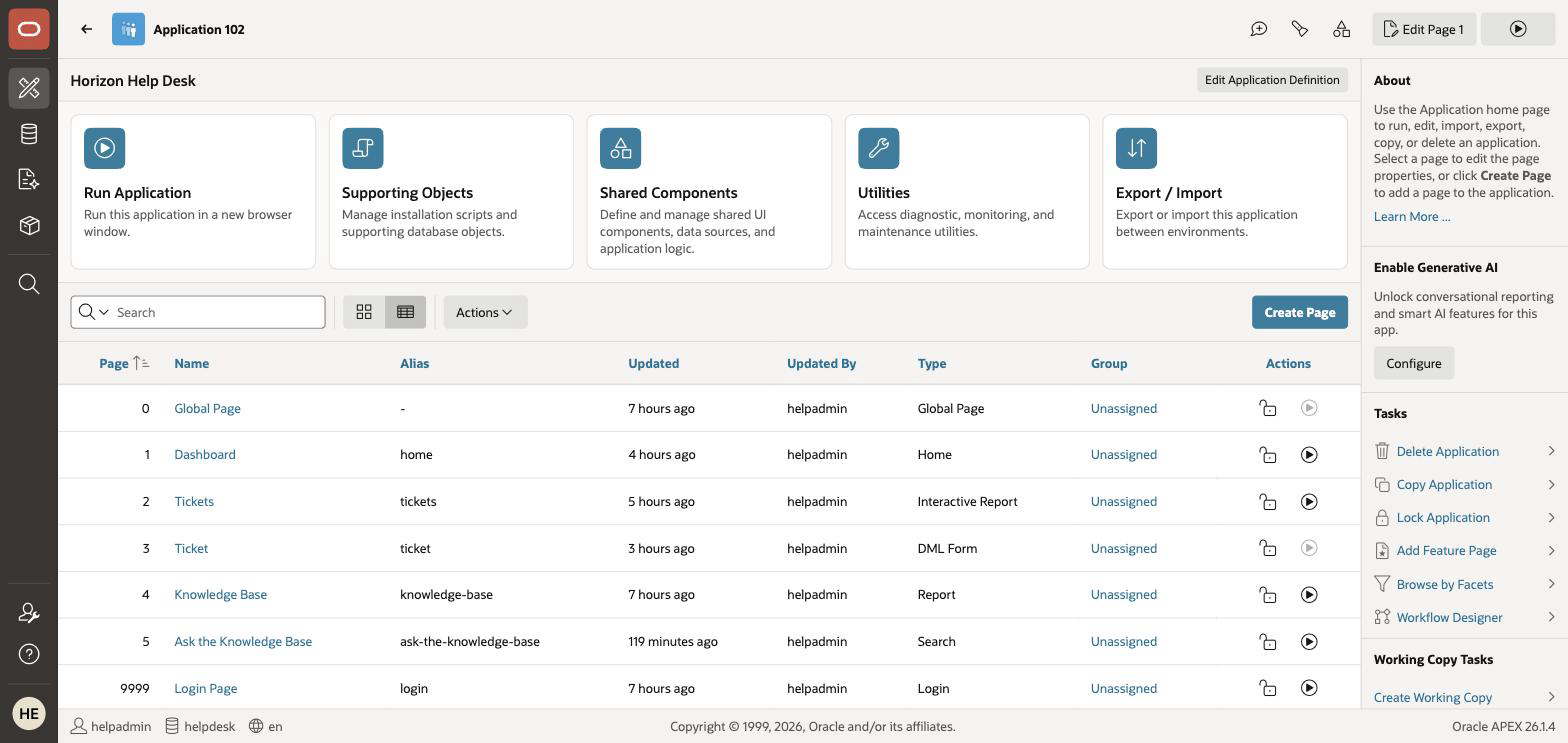
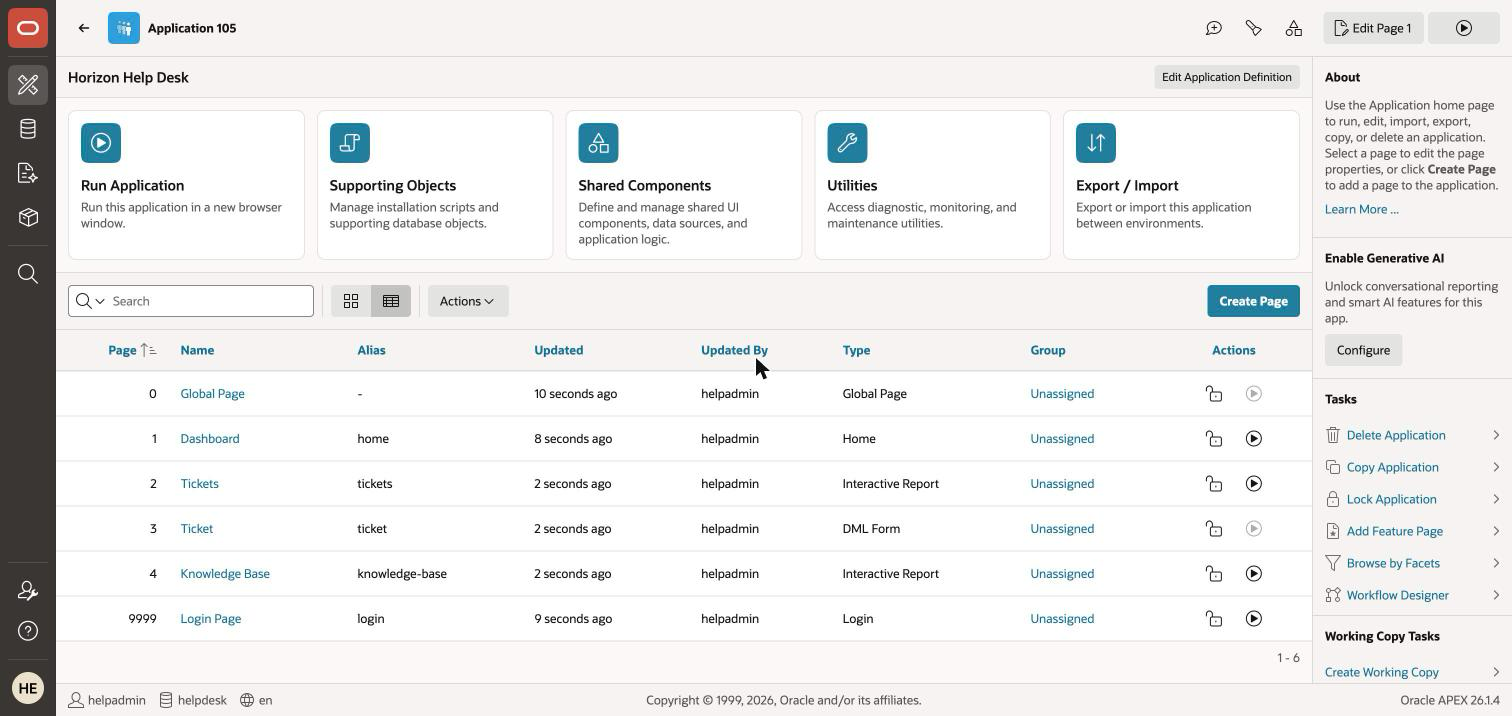
Lab 3: fix ORA-20987 at its source; chart aggregation is not promptable
Found the real cause in the blueprint editor, before the app exists: each
Dashboard chart defaults to aggregation Sum over Value Column ID - it sums
primary keys. After grouping by STATUS the ID reference is gone, which is the
error. The lab claimed the wizard applies a Count aggregation; it applies Sum.

Tried to pin it in the prompt as asked and it does not work. With "use a Count
aggregation over all columns, not a Sum of the ID column" both charts came back
on Column Value with no Value Column selected - unconfigured rather than
correct, and worse than the Sum(ID) default, which at least fails loudly.
Reproduced on both charts, so the clause is reverted.

The reliable fix is two clicks in the wizard: Edit the Dashboard page and
choose Count on the Chart 1 and Chart 2 tabs, which flips Value Column to All
Columns. That is now Task 2 check 2 - the same moment the lab already tells the
reader everything is free to change. The Page Designer SQL rewrite stays as
recovery for anyone who already created the app.

Claude-Session: https://claude.ai/code/session_01Roi77wP42pEGuuHzavMxaT

diff --git a/ai-helpdesk-agent/3-generate-app/3-generate-app.md b/ai-helpdesk-agent/3-generate-app/3-generate-app.md
@@ -79,7 +79,7 @@ blueprint editor, and fiddly to change after the app exists.
     | # | Check | Needed by |
     |---|---|---|
     | 1 | **Dashboard** is listed **first** — it must become page 1; rename it if the AI called it Overview | Lab 5 |
-    | 2 | Dashboard has a **tickets by status** chart and a **tickets by category** chart — click its **Edit** and step through the *Chart 1* / *Chart 2* tabs to confirm | the Lab 3 tour |
+    | 2 | Dashboard has a **tickets by status** chart and a **tickets by category** chart — click its **Edit**, and on *both* the **Chart 1** and **Chart 2** tabs set the aggregation to **Count** | the Lab 3 tour |
     | 3 | A page named **Tickets** whose type is **Interactive Report** — **rename it here** if the AI called it something else | **Lab 4** |
     | 4 | The Tickets entry also produces an **editable form** on TICKETS | **Lab 6** |
     | 5 | A page named **Knowledge Base** reporting on KB_ARTICLES — rename it if the AI called it Article Library | the tour |
@@ -103,21 +103,30 @@ blueprint editor, and fiddly to change after the app exists.
 
 2. Take that in: **a real web application — authentication, a URL you could send to a colleague, responsive UI — from one reviewed prompt.** In most stacks that was your whole afternoon.
 
-    > **Dashboard charts empty, with an `ORA-20987` error?** Known issue in APEX 26.1.4, not something you
-    > did. Verbatim: `ORA-20987: APEX - Column "ID" specified for attribute "" has not been found in data
-    > source!` The Create App wizard builds each chart series from the whole `TICKETS` table *and* applies a
-    > `Count` aggregation, so after grouping, the `ID` column it still refers to no longer exists.
+    > **Dashboard charts empty, with an `ORA-20987` error?** That means the charts were left on their
+    > default aggregation. Verbatim: `ORA-20987: APEX - Column "ID" specified for attribute "" has not
+    > been found in data source!`
     >
-    > **Sixty-second fix, per chart:** in **Page Designer** open page 1, select the chart region's
-    > **Series 1**, and under **Source** set **Type** to **SQL Query**. Replace the query with:
+    > **The cause.** In the blueprint editor each chart defaults to aggregation **Sum** over Value Column
+    > **ID** — it sums primary keys. After APEX groups by `STATUS`, the `ID` column that series still
+    > refers to no longer exists, and you get the error.
+    >
+    > **Prevent it in ten seconds** (this is Task 2, check 2): in the wizard, **Edit** the Dashboard page
+    > and on both the **Chart 1** and **Chart 2** tabs click **Count**. Value Column flips to
+    > *All Columns* — a plain `count(*)` with no `ID` reference — and both charts render.
+    >
+    > **Already created the app?** Fix it in **Page Designer** instead: open page 1, select the chart
+    > region's **Series 1**, set **Source** > **Type** to **SQL Query**, and use:
     >
     > `select status as label, count(*) as value from tickets group by status order by 1`
     >
-    > (use `category` in place of `status` for the second chart). Then set **Column Mapping** — **Label** to `LABEL` and
-    > **Value** to `VALUE` — and click **Save**. Reload the app and both charts render.
+    > (use `category` for the second chart), then set **Column Mapping** — **Label** to `LABEL`, **Value**
+    > to `VALUE` — and **Save**.
     >
-    > Worth doing even though nothing later depends on these charts: it is a tidy example of reading an
-    > Oracle error, finding the real cause, and fixing it declaratively.
+    > Asking the prompt to pin the aggregation does **not** work: we tested `use a Count aggregation over
+    > all columns, not a Sum of the ID column` and the wizard came back on **Column Value** with no Value
+    > Column chosen at all — unconfigured rather than correct. The chart aggregation is a wizard setting,
+    > not a promptable one.
 
 ## Task 4: A Two-Minute Tour (Vocabulary for the Rest of the Day)
 

diff --git a/tasks/todo.md b/tasks/todo.md
@@ -708,3 +708,26 @@ Without it the blueprint ends with *"With the following features enabled: Instal
 Push Notifications"*. With it that line is **absent entirely** — no features are enabled. This removes the
 source of the `App NNN Push Notifications Credentials` debris at generation time rather than cleaning it
 up afterwards. `app-blueprint.png` re-captured a third time so the image matches the final prompt.
+
+### Chart aggregation is NOT promptable — tested and reverted (2026-08-31)
+
+Rick asked to refine the prompt to produce the missing chart configuration. Tested, and it does not work.
+
+**Real cause of ORA-20987, found in the wizard before the app exists:** each Dashboard chart defaults to
+aggregation **`Sum`** over Value Column **`ID`** — it sums primary keys. After grouping by `STATUS`, the
+`ID` the series refers to is gone, hence *"Column \"ID\" specified for attribute \"\" has not been found in
+data source"*. **The lab previously said the wizard applies a `Count` aggregation. It applies `Sum`.**
+
+**Clause tested:** `Both charts must aggregate by counting rows - use a Count aggregation over all
+columns, not a Sum of the ID column.`
+
+**Result:** the clause *did* change behaviour — the `Sum`/`ID` default was gone — but both charts came back
+on **`Column Value`** with **`- Select Value Column -`** unset. Unconfigured rather than correct, which is
+worse than the original: `Sum(ID)` at least produces a chart that fails loudly at runtime. Consistent
+across Chart 1 and Chart 2. **Clause reverted.**
+
+**Reliable fix, now in Task 2 check 2:** in the wizard, Edit the Dashboard page and click **Count** on both
+the Chart 1 and Chart 2 tabs. Value Column flips to *All Columns* (`count(*)`), no `ID` reference. Two
+clicks, declarative, at the exact moment the lab already says "free to change now, fiddly later" — which is
+where the fix belonged all along. The Page Designer SQL rewrite survives as recovery for anyone who
+already created the app.
